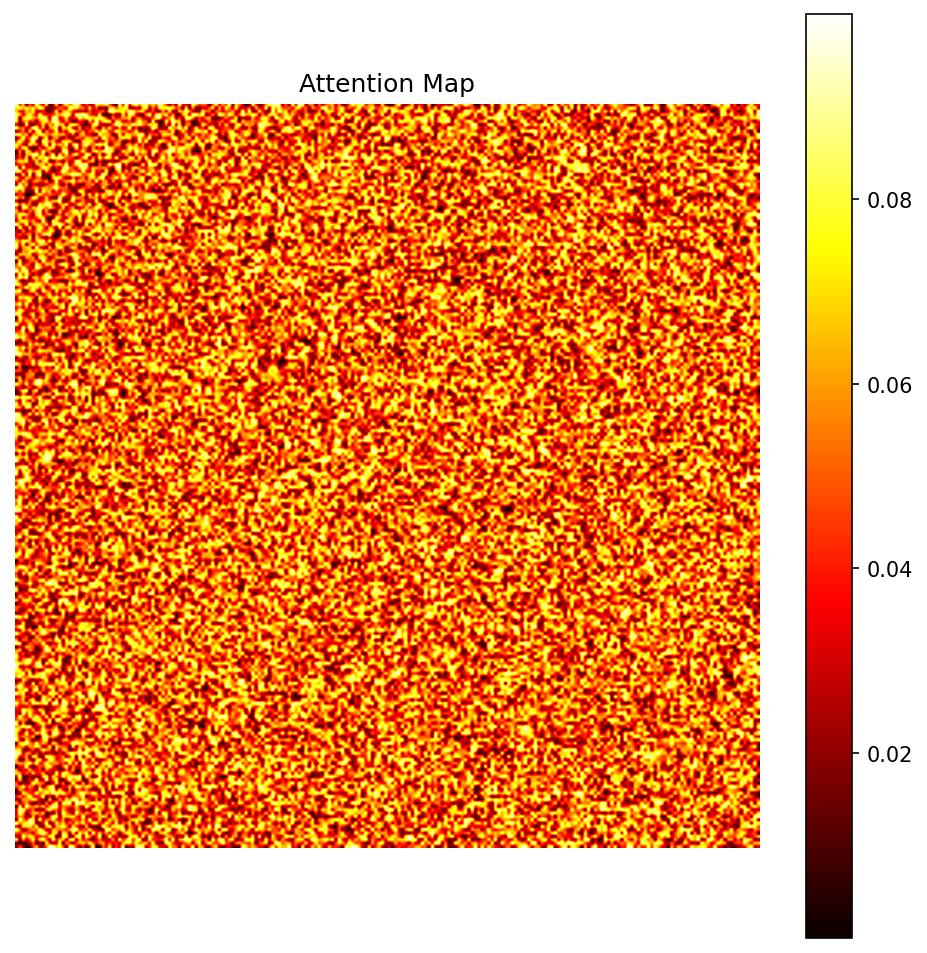
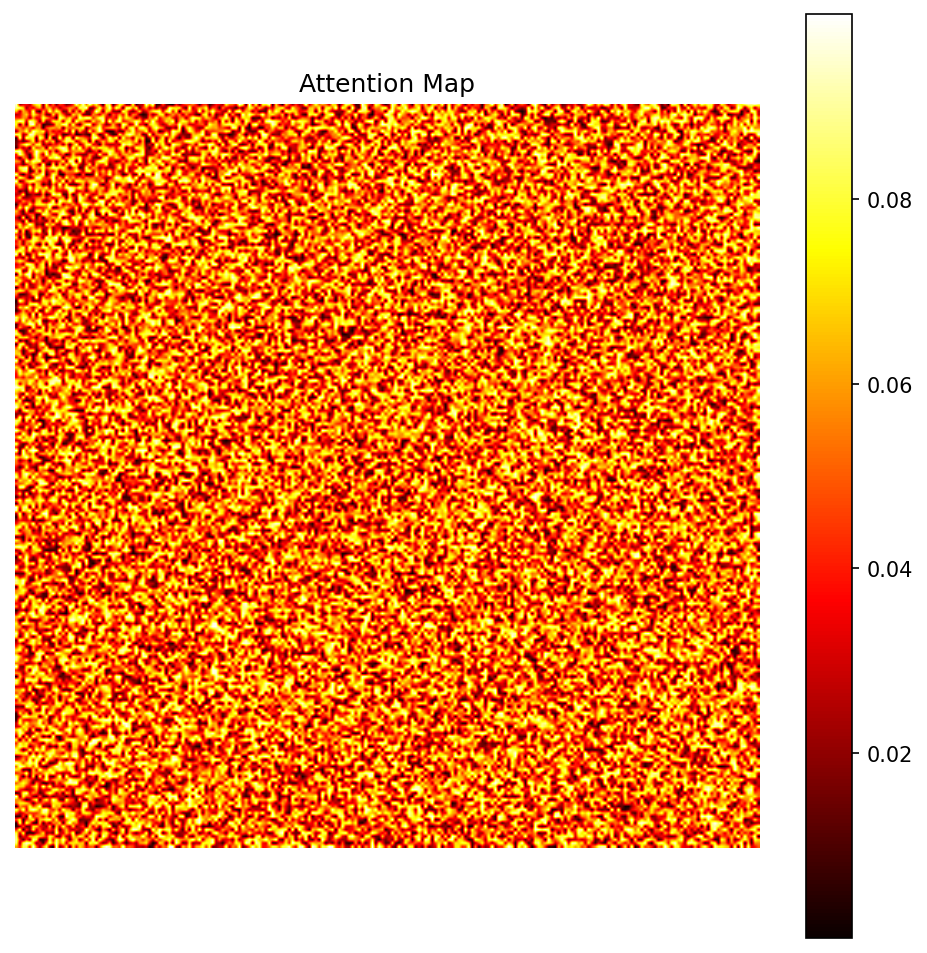
修复grounding评估中extract_features调用缺少input_ids参数的问题

diff --git a/qwen_finetune/Qwen2-VL-Finetune/src/eval/grounding_eval_rsna.py b/qwen_finetune/Qwen2-VL-Finetune/src/eval/grounding_eval_rsna.py
@@ -52,21 +52,56 @@ logger = logging.getLogger(__name__)
 class RSNAGroundingDataset(Dataset):
     """RSNA Grounding数据集类"""
     
-    def __init__(self, csv_path, image_folder, target_size=224, max_samples=-1):
+    def __init__(self, csv_path=None, jsonl_path=None, image_folder="", target_size=224, max_samples=-1):
         import pandas as pd
+        import json
         
         self.image_folder = image_folder
         self.target_size = target_size
         
-        # 读取CSV文件
-        df = pd.read_csv(csv_path)
-        
-        # 限制样本数量
-        if max_samples > 0:
-            df = df.head(max_samples)
-        
-        self.data = df
-        logger.info(f"Loaded RSNA dataset with {len(self.data)} samples")
+        if jsonl_path:
+            # 读取JSONL文件
+            data_list = []
+            with open(jsonl_path, 'r', encoding='utf-8') as f:
+                count = 0
+                for line in f:
+                    if max_samples > 0 and count >= max_samples:
+                        break
+                    
+                    data = json.loads(line.strip())
+                    
+                    # 转换JSONL格式到CSV格式的字典
+                    image_rel_path = data['image']  # "RSNA_Pneumonia/stage_2_train_images/xxx.dcm"
+                    sample_id = os.path.splitext(os.path.basename(image_rel_path))[0]
+                    
+                    # 从标签提取类别
+                    labels = data.get('label', {})
+                    pneumonia_label = labels.get('pneumonia', 0)
+                    
+                    data_list.append({
+                        'ID': sample_id,
+                        'img_path': image_rel_path,
+                        'boxes': '',  # JSONL中没有box信息
+                        'classes': pneumonia_label,
+                        'text': data.get('text', '')
+                    })
+                    count += 1
+            
+            self.data = pd.DataFrame(data_list)
+            logger.info(f"Loaded RSNA dataset from JSONL with {len(self.data)} samples")
+            
+        elif csv_path:
+            # 读取CSV文件（原始逻辑）
+            df = pd.read_csv(csv_path)
+            
+            # 限制样本数量
+            if max_samples > 0:
+                df = df.head(max_samples)
+            
+            self.data = df
+            logger.info(f"Loaded RSNA dataset from CSV with {len(self.data)} samples")
+        else:
+            raise ValueError("Either csv_path or jsonl_path must be provided")
     
     def __len__(self):
         return len(self.data)
@@ -105,12 +140,13 @@ class RSNAGroundingDataset(Dataset):
         return sample
 
 
-def create_rsna_dataloader(csv_path, image_folder, batch_size=4, target_size=224, 
+def create_rsna_dataloader(csv_path=None, jsonl_path=None, image_folder="", batch_size=4, target_size=224, 
                           max_samples=-1, num_workers=0, shuffle=False):
     """创建RSNA数据加载器"""
     
     dataset = RSNAGroundingDataset(
         csv_path=csv_path,
+        jsonl_path=jsonl_path,
         image_folder=image_folder, 
         target_size=target_size,
         max_samples=max_samples
@@ -613,8 +649,10 @@ class CLIPGroundingEvaluator:
             return None, "failed"
             
         try:
-            # 使用模型的extract_features方法
+            # 使用模型的extract_features方法（需要传递完整参数）
             feats = self.model.extract_features(
+                input_ids=inputs["input_ids"],
+                attention_mask=inputs["attention_mask"],
                 pixel_values=inputs["pixel_values"], 
                 image_grid_thw=inputs.get("image_grid_thw", None)
             )
@@ -1034,6 +1072,8 @@ def main():
     parser.add_argument("--csv_path", type=str, 
                        default="/home/lby/iclr2026/llava_med/LLaVA-Med/llava/run/data/process_data/rsna/test.csv",
                        help="Path to RSNA test CSV file")
+    parser.add_argument("--jsonl_path", type=str, 
+                       help="Path to RSNA JSONL file (alternative to CSV)")
     parser.add_argument("--image_folder", type=str, default="/srv/lby/",
                        help="Root path to image folders")
     parser.add_argument("--disease_desc_path", type=str,
@@ -1064,16 +1104,30 @@ def main():
     )
     
     # 创建数据加载器
-    logger.info(f"Creating dataset from: {args.csv_path}")
-    dataloader, dataset = create_rsna_dataloader(
-        csv_path=args.csv_path,
-        image_folder=args.image_folder,
-        batch_size=args.batch_size,
-        target_size=args.target_size,
-        max_samples=args.max_samples,
-        num_workers=0,
-        shuffle=False
-    )
+    if args.jsonl_path:
+        logger.info(f"Creating dataset from JSONL: {args.jsonl_path}")
+        dataloader, dataset = create_rsna_dataloader(
+            jsonl_path=args.jsonl_path,
+            image_folder=args.image_folder,
+            batch_size=args.batch_size,
+            target_size=args.target_size,
+            max_samples=args.max_samples,
+            num_workers=0,
+            shuffle=False
+        )
+        data_source = args.jsonl_path
+    else:
+        logger.info(f"Creating dataset from CSV: {args.csv_path}")
+        dataloader, dataset = create_rsna_dataloader(
+            csv_path=args.csv_path,
+            image_folder=args.image_folder,
+            batch_size=args.batch_size,
+            target_size=args.target_size,
+            max_samples=args.max_samples,
+            num_workers=0,
+            shuffle=False
+        )
+        data_source = args.csv_path
     
     logger.info(f"Dataset loaded: {len(dataset)} samples")
     
@@ -1087,7 +1141,7 @@ def main():
     # 保存结果
     output_data = {
         "model_path": args.model_path,
-        "csv_path": args.csv_path,
+        "data_source": data_source,
         "dataset_size": len(dataset),
         "batch_size": args.batch_size,
         "evaluation_results": results

diff --git a/qwen_finetune/Qwen2-VL-Finetune/SCRIPT_DEBUG_SUMMARY.md b/qwen_finetune/Qwen2-VL-Finetune/SCRIPT_DEBUG_SUMMARY.md
@@ -159,3 +159,4 @@ python src/eval/grounding_eval_rsna.py --help
 
 **调试完成！** 现在grounding_eval_script.sh已经具备了完善的兼容性检查和错误诊断能力，可以与修改后的grounding_eval_rsna.py正常配合使用。🎉
 
+

diff --git a/qwen_finetune/Qwen2-VL-Finetune/CSV_DATA_FIX.md b/qwen_finetune/Qwen2-VL-Finetune/CSV_DATA_FIX.md
@@ -121,3 +121,4 @@ cd /home/lby/iclr2026/qwen_radz/qwen_finetune/Qwen2-VL-Finetune
 
 **修复完成！** 现在CSV数据格式与代码期望完全匹配，应该能够正常运行grounding评估。🎉
 
+

diff --git a/qwen_finetune/Qwen2-VL-Finetune/MEDKLIP_GROUNDING_INTEGRATION.md b/qwen_finetune/Qwen2-VL-Finetune/MEDKLIP_GROUNDING_INTEGRATION.md
@@ -189,3 +189,4 @@ Evaluation completed successfully using MedKLIP methodology!
 
 *修改完成！现在的grounding_eval_rsna.py完全按照MedKLIP的方法进行zero-shot grounding评估。* 🎉
 
+

diff --git a/qwen_finetune/Qwen2-VL-Finetune/ERROR_ANALYSIS_RESHAPE.md b/qwen_finetune/Qwen2-VL-Finetune/ERROR_ANALYSIS_RESHAPE.md
@@ -133,3 +133,4 @@ ERROR: Failed to load image /srv/lby/mdai_rsna_project_x9N20BZa_images_2018-07-2
 
 **主要错误已修复！** 现在reshape函数应该能够正常工作了。🔧✨
 
+

diff --git a/qwen_finetune/Qwen2-VL-Finetune/GROUNDING_EVAL_IMPROVEMENTS.md b/qwen_finetune/Qwen2-VL-Finetune/GROUNDING_EVAL_IMPROVEMENTS.md
@@ -195,3 +195,4 @@ python src/eval/grounding_eval_rsna.py \
 
 *此改进基于clip_eval_original.py的先进特性，旨在提供更稳定、更高效的grounding评估解决方案。*
 
+
